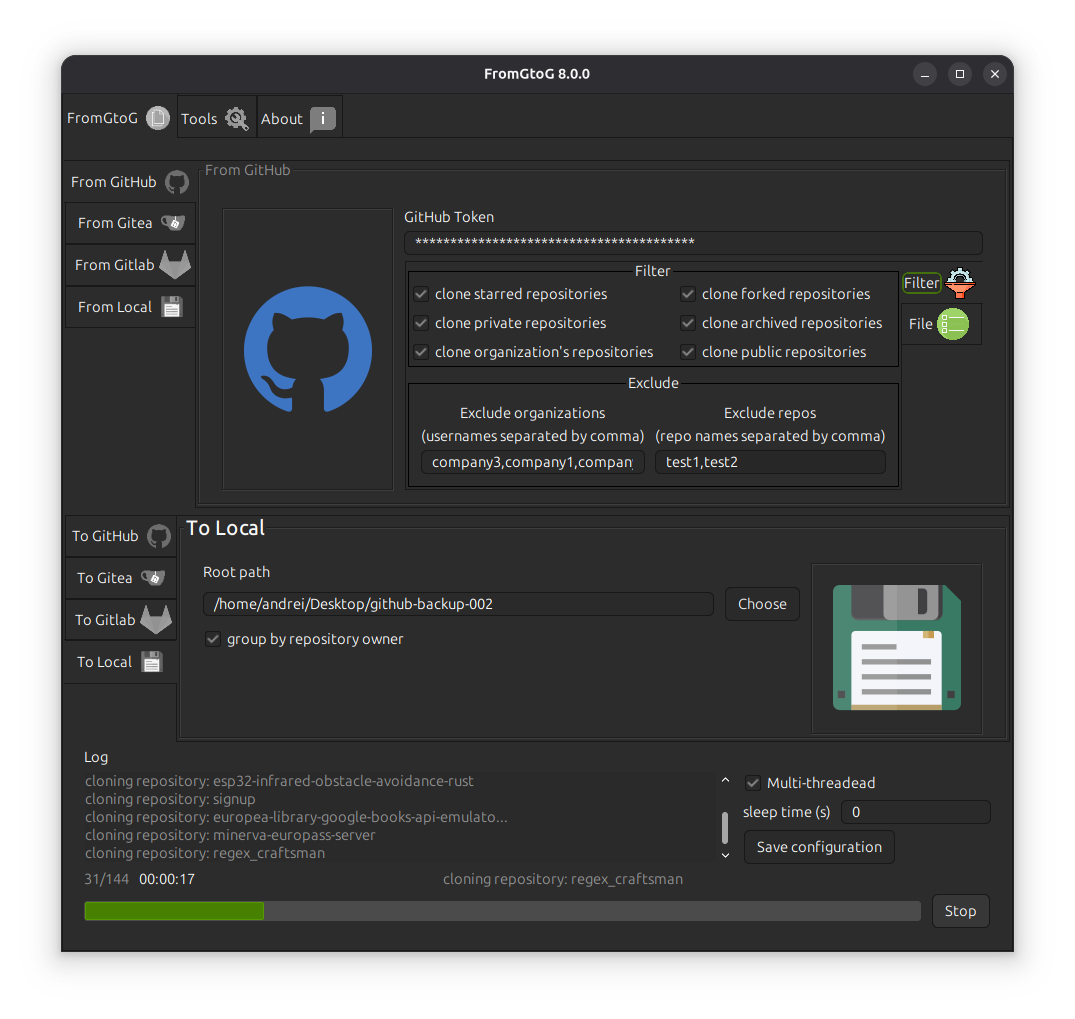
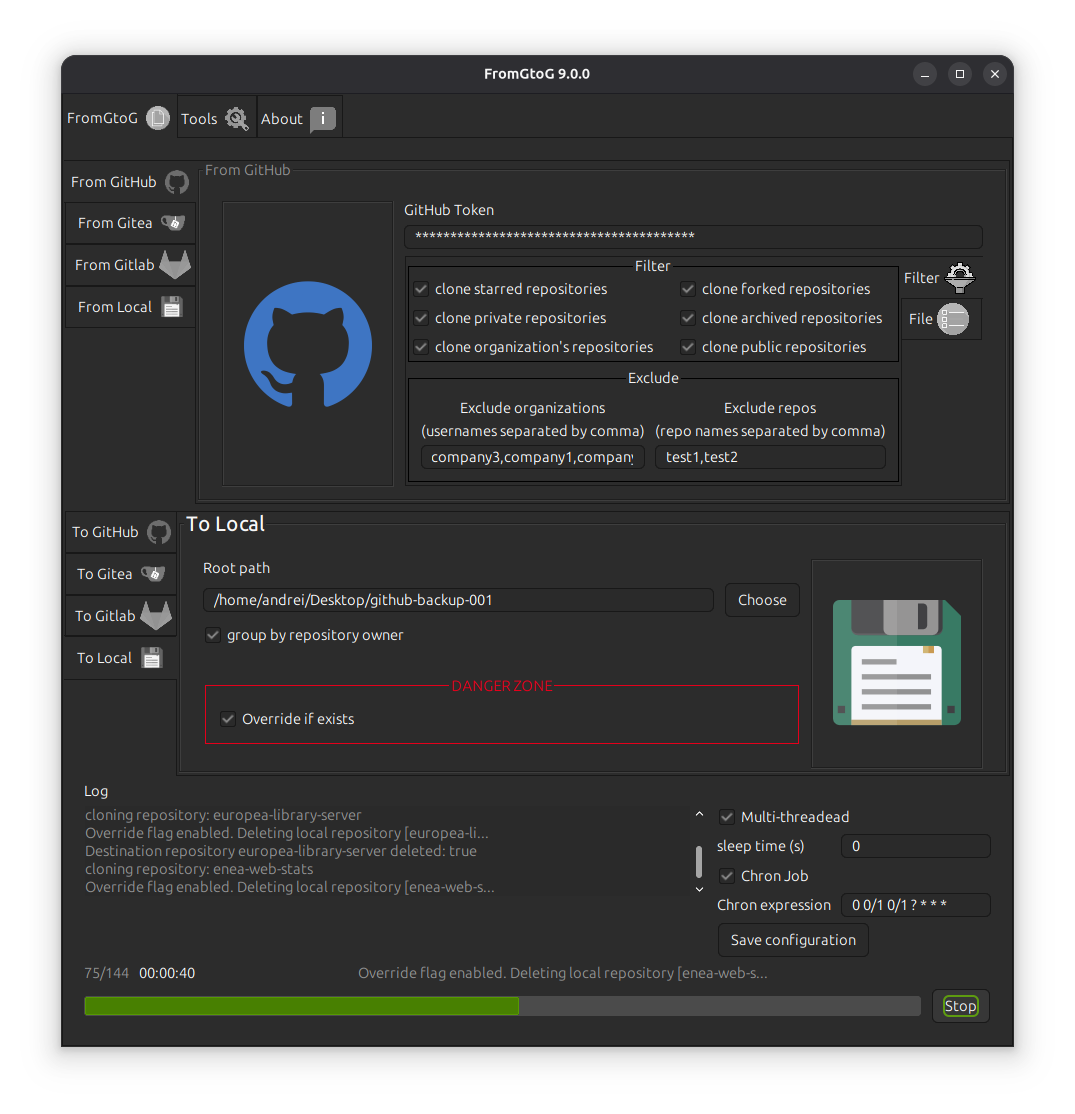
doc: update

diff --git a/README.md b/README.md
@@ -36,6 +36,11 @@ The application currently supports robust two-way cloning and backup across:
 
 FromGtoG goes beyond simple batch operations, offering advanced filtering and performance capabilities:
 
+* **Scheduled Backup Jobs (Toggleable):** Take control of your workflow by automating complete backup and migration
+  tasks using **Quartz Cron Expressions**. Users can define a schedule and **easily activate or deactivate** the job as
+  needed. When the schedule matches the current time, the backup runs. During execution, the application's **system tray
+  icon** flashes intermittently (red and blue) to indicate the active job, advising users not to shut down the computer
+  or terminate the process.
 * **Detailed Logging:** Produces a comprehensive **log file** that allows you to analyze the application's work in
   detail, ensuring that every necessary repository was successfully cloned and verified.
 * **Rate Limit Prevention:** Features an optional setting to define a **time interval between cloning calls** to prevent
